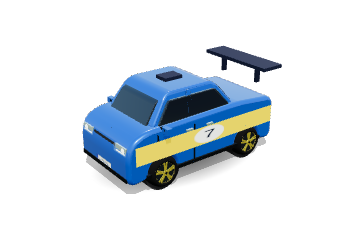
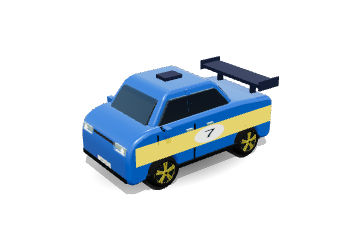
v0.4.1 : ailerons du Rallye et de la Supercar reliés à la carrosserie
Claude-Session: https://claude.ai/code/session_01J5Ww4yUSbVacGDq1Qp6BkE

diff --git a/src/assets3d.js b/src/assets3d.js
@@ -625,8 +625,11 @@ export const CARS = {
     lower: [[8, 46], [8, 26], [32, 24], [84, 25], [91, 28], [93, 34], [93, 46]],
     cabin: [[32, 24], [43, 11], [70, 11], [80, 25]], wheels: [[24, 7.5], [76, 7.5]], lightY: 31,
     extras: (g, cx, W) => {
-      const wing = new THREE.Mesh(new THREE.BoxGeometry(0.5, 0.07, W), mat(0x14213D)); const [x, y] = at(cx, 9, 9); wing.position.set(x, y, 0); g.add(wing);
-      for (const s of [-0.5, 0.5]) { const p = new THREE.Mesh(new THREE.BoxGeometry(0.1, 0.35, 0.06), mat(0x14213D)); p.position.set(x + 0.05, y - 0.2, s); g.add(p); }
+      // Aileron posé sur le coffre : deux montants relient la lame à la carrosserie
+      const [x] = at(cx, 12, 0), yTrunk = (53 - 25.6) / 25 + 0.04, y = yTrunk + 0.3;
+      const wing = new THREE.Mesh(new THREE.BoxGeometry(0.5, 0.07, W), mat(0x14213D)); wing.position.set(x, y, 0); g.add(wing);
+      for (const s of [-0.5, 0.5]) { const p = new THREE.Mesh(new THREE.BoxGeometry(0.12, y - yTrunk + 0.06, 0.06), mat(0x14213D)); p.position.set(x + 0.04, (y + yTrunk) / 2 - 0.02, s); g.add(p); }
+      for (const s of [-1, 1]) { const ep = new THREE.Mesh(new THREE.BoxGeometry(0.55, 0.2, 0.03), mat(0x14213D)); ep.position.set(x, y + 0.02, s * (W / 2 + 0.015)); g.add(ep); }
       const sc = new THREE.Mesh(new THREE.BoxGeometry(0.4, 0.12, 0.3), mat(0x14213D)); const [sx, sy] = at(cx, 57, 9.8); sc.position.set(sx, sy, 0); g.add(sc);
       const num = canvasTex(256, 64, (c, Wd, H) => { c.fillStyle = '#FFD23F'; c.fillRect(0, 0, Wd, H); c.fillStyle = '#fff'; c.beginPath(); c.arc(128, 32, 28, 0, 7); c.fill(); c.fillStyle = '#14213D'; c.font = 'bold 40px sans-serif'; c.textAlign = 'center'; c.textBaseline = 'middle'; c.fillText('7', 128, 34); });
       for (const sg of [-1, 1]) { const b = new THREE.Mesh(new THREE.PlaneGeometry(3.3, 0.36), mat(0xffffff, { map: num })); const [bx, by] = at(cx, 50, 33); b.position.set(bx, by, sg * (W / 2 + 0.012)); if (sg < 0) b.rotation.y = Math.PI; g.add(b); }
@@ -655,8 +658,11 @@ export const CARS = {
     lower: [[4, 44], [4, 32], [30, 29], [70, 29], [92, 32], [96, 37], [96, 44]],
     cabin: [[38, 30], [50, 20], [64, 20], [82, 31]], roofT: 1.8, pillar: false, wheels: [[24, 7.5], [80, 7.5]], lightY: 35,
     extras: (g, cx, W) => {
-      const wing = new THREE.Mesh(new THREE.BoxGeometry(0.45, 0.06, W), mat(0x0B3B1C)); const [x, y] = at(cx, 8, 23); wing.position.set(x, y, 0); g.add(wing);
-      for (const s of [-0.55, 0.55]) { const p = new THREE.Mesh(new THREE.BoxGeometry(0.08, 0.2, 0.06), mat(0x0B3B1C)); p.position.set(x + 0.05, y - 0.12, s); g.add(p); }
+      // Aileron posé sur le capot arrière : montants jusqu'à la carrosserie
+      const [x] = at(cx, 11, 0), yTrunk = (53 - 31.2) / 25 + 0.04, y = yTrunk + 0.32;
+      const wing = new THREE.Mesh(new THREE.BoxGeometry(0.45, 0.06, W), mat(0x0B3B1C)); wing.position.set(x, y, 0); g.add(wing);
+      for (const s of [-0.55, 0.55]) { const p = new THREE.Mesh(new THREE.BoxGeometry(0.1, y - yTrunk + 0.06, 0.06), mat(0x0B3B1C)); p.position.set(x + 0.04, (y + yTrunk) / 2 - 0.02, s); g.add(p); }
+      for (const s of [-1, 1]) { const ep = new THREE.Mesh(new THREE.BoxGeometry(0.5, 0.18, 0.03), mat(0x0B3B1C)); ep.position.set(x, y + 0.02, s * (W / 2 + 0.015)); g.add(ep); }
       for (const sg of [-1, 1]) { const intake = new THREE.Mesh(new THREE.BoxGeometry(0.7, 0.18, 0.06), mat(0x0B3B1C)); const [ix, iy] = at(cx, 36, 36); intake.position.set(ix, iy, sg * (W / 2 + 0.01)); g.add(intake); }
     } },
   f1: { name: 'Formule 1', color: 0xE10600, W: 1.0, bumpers: false, ww: 0.6, track: 0.45,

diff --git a/src/game/version.js b/src/game/version.js
@@ -1,2 +1,2 @@
 // Numéro de version affiché sur l'écran d'accueil (à garder aligné avec package.json)
-export const VERSION = '0.4.0';
+export const VERSION = '0.4.1';

diff --git a/docs/release-notes.md b/docs/release-notes.md
@@ -1,13 +1,7 @@
-Des véhicules plus réalistes.
+Correction des ailerons.
 
 ## Installer / mettre à jour
-Télécharge `HillKicker-v0.4.0.apk` ci-dessous depuis ton téléphone et ouvre-le : il s'installe par-dessus la version précédente, ta progression est conservée.
+Télécharge `HillKicker-v0.4.1.apk` ci-dessous depuis ton téléphone et ouvre-le : il s'installe par-dessus la version précédente, ta progression est conservée.
 
-## Nouveautés (apparence des 20 véhicules uniquement, le jeu ne change pas)
-- Peinture métallisée vernie avec de vrais reflets de ciel et d'horizon.
-- Vitres teintées sombres avec montants de carrosserie, pare-brise et lunette arrière.
-- Passages de roue découpés, jantes à 5 doubles branches avec lèvre chromée, disques et étriers de frein, pneus taille basse.
-- Phares à projecteur avec feux de jour, feux arrière en verre rouge (doubles anneaux sur les sportives).
-- Calandre grillagée, plaques d'immatriculation, échappements chromés, rétroviseurs, poignées, joints de portes, bas de caisse noir.
-- Ombre douce sous la voiture.
-- Vignettes du garage refaites.
+## Corrections
+- **Rallye** et **Supercar** : l'aileron flottait au-dessus de la voiture. Il est maintenant posé sur le coffre, avec deux montants qui le relient à la carrosserie et des dérives sur les côtés.
